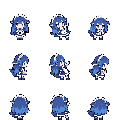
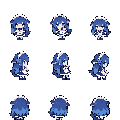
Redraw tool, crouch and fishing poses with empty hands
The game draws hoes, watering cans and rods itself, so these sheets are
now generated without any tool instead of having the tool cut out
afterwards. This removes the leftover tool fragments and the gaps where
the tool used to cover the body; the back-view hands sit behind the
hair. README conversion commands and art/prompts.md match the new art.

diff --git a/art/prompts.md b/art/prompts.md
@@ -86,3 +86,46 @@ Row 2, all facing down toward the camera: 1 = shocked with wide eyes and hands u
 Bottom of every pose on the same ground line.
 Solid flat magenta background (#FF00FF), no shadows, no ground, no text, no grid lines, clear empty gaps between poses.
 ```
+
+---
+
+# 第二版：空手姿势（现在 tools / crouch / fishing 用的是这一版）
+
+## 4-tools-v2.png
+
+```text
+Use the attached sprite sheet as the exact character and style reference (same girl, same pixel size, same palette, same outline, same proportions).
+
+Draw a new pixel art sprite sheet of her miming a two-handed hoe swing with EMPTY hands, Stardew Valley style. Her hands are closed fists as if gripping a handle, but there is NO tool, NO handle, NO stick, nothing in her hands at all.
+Layout: 3 rows x 4 columns, evenly spaced, one pose per cell, each pose drawn at the SAME scale as the reference (about 22 pixels wide and 30 pixels tall in true pixel resolution, upscaled with nearest-neighbor, crisp square pixels, no anti-aliasing).
+Row 1: facing down (toward camera). Row 2: facing right. Row 3: facing up (back view).
+Columns: 1 = both fists raised high above her head, 2 = fists swinging down in front of her face, 3 = fists low in front of her knees, bending forward slightly, 4 = standing back up, fists in front of her waist.
+Feet stay on the same ground line in every cell.
+Solid flat magenta background (#FF00FF), no shadows, no ground, no text, no grid lines, clear empty gaps between poses.
+```
+
+## 6-crouch-v2.png
+
+```text
+Use the attached sprite sheet as the exact character and style reference (same girl, same pixel size, same palette, same outline, same proportions).
+
+Draw a new pixel art sprite sheet of her working close to the ground with EMPTY hands, Stardew Valley style. NO watering can, NO tools, NO items in her hands at all.
+Layout: 3 rows x 4 columns, evenly spaced, one pose per cell, each pose drawn at the SAME scale as the reference (about 22 pixels wide, up to 30 pixels tall in true pixel resolution, upscaled with nearest-neighbor, crisp square pixels, no anti-aliasing).
+Row 1: facing down (toward camera). Row 2: facing right. Row 3: facing up (back view).
+Columns: 1 = crouching and reaching one empty hand toward the ground, 2 = crouching and closing that hand as if grabbing something, 3 = standing with both empty hands held forward at chest height as if holding a handle, 4 = same but leaning forward slightly with hands tilted down as if pouring.
+Feet stay on the same ground line in every cell.
+Solid flat magenta background (#FF00FF), no shadows, no ground, no text, no grid lines, clear empty gaps between poses.
+```
+
+## 7-fishing-v2.png
+
+```text
+Use the attached sprite sheet as the exact character and style reference (same girl, same pixel size, same palette, same outline, same proportions).
+
+Draw a new pixel art sprite sheet of her miming fishing with EMPTY hands, Stardew Valley style. Her fists are held as if gripping a rod, but there is NO fishing rod, NO line, NO stick, nothing in her hands at all.
+Layout: 3 rows x 3 columns, evenly spaced, one pose per cell, each pose drawn at the SAME scale as the reference (about 22 pixels wide and 30 pixels tall in true pixel resolution, upscaled with nearest-neighbor, crisp square pixels, no anti-aliasing).
+Row 1: facing down (toward camera). Row 2: facing right. Row 3: facing up (back view).
+Columns: 1 = calmly holding both fists forward at waist height, waiting, 2 = leaning back and pulling both fists up toward her chest, 3 = leaning forward with fists lower in front of her.
+Feet stay on the same ground line in every cell.
+Solid flat magenta background (#FF00FF), no shadows, no ground, no text, no grid lines, clear empty gaps between poses.
+```

diff --git a/README.md b/README.md
@@ -63,14 +63,14 @@ A SMAPI mod that replaces the Stardew Valley farmer with a chibi whale-girl maid
 
 1. `art/prompts.md`：给图像模型的提示词（品红背景、固定网格、每次附上走路图当参考）。
 2. `art/source/`：模型生成的原图（1024×1536）。
-3. `art/pixelize.py`：把原图转成真正的低分辨率像素帧——抠品红背景、按块取主色、压缩调色板、脚底和头部对齐；`--strip-tool` 会抠掉图里的工具（游戏会自己画），`--ref r,c --height 26` 按某一格的站立高度统一大小。
+3. `art/pixelize.py`：把原图转成真正的低分辨率像素帧——抠品红背景、按块取主色、压缩调色板、脚底和头部对齐；`--strip-tool` 能尽量抠掉图里的工具（游戏会自己画），但效果不如直接让模型画空手姿势，`--ref r,c --height 26` 按某一格的站立高度统一大小。
 
 ```bash
 python art/pixelize.py art/source/1-full.png WhaleFarmer/assets/walk.png --cols 4 --rows 4 --height 30
-python art/pixelize.py art/source/4-tools.png WhaleFarmer/assets/tools.png --cols 4 --rows 3 --ref 0,3 --height 26 --cell 40x40 --strip-tool
+python art/pixelize.py art/source/4-tools.png WhaleFarmer/assets/tools.png --cols 4 --rows 3 --ref 0,3 --height 26 --cell 40x40
 python art/pixelize.py art/source/5-melee.png WhaleFarmer/assets/melee.png --cols 4 --rows 3 --ref 0,0 --height 26 --cell 40x40
-python art/pixelize.py art/source/6-crouch.png WhaleFarmer/assets/crouch.png --cols 4 --rows 3 --ref 0,2 --height 26 --cell 40x40 --strip-tool
-python art/pixelize.py art/source/7-fishing.png WhaleFarmer/assets/fishing.png --cols 3 --rows 3 --ref 0,0 --height 26 --cell 40x40 --strip-tool
+python art/pixelize.py art/source/6-crouch.png WhaleFarmer/assets/crouch.png --cols 4 --rows 3 --ref 0,2 --height 26 --cell 40x40
+python art/pixelize.py art/source/7-fishing.png WhaleFarmer/assets/fishing.png --cols 3 --rows 3 --ref 0,0 --height 26 --cell 40x40
 python art/pixelize.py art/source/8-eat.png WhaleFarmer/assets/eat.png --cols 6 --rows 1 --ref 0,1 --height 26 --cell 40x40
 python art/pixelize.py art/source/9-misc.png WhaleFarmer/assets/misc.png --cols 4 --rows 2 --ref 1,3 --height 26 --cell 40x40
 ```
